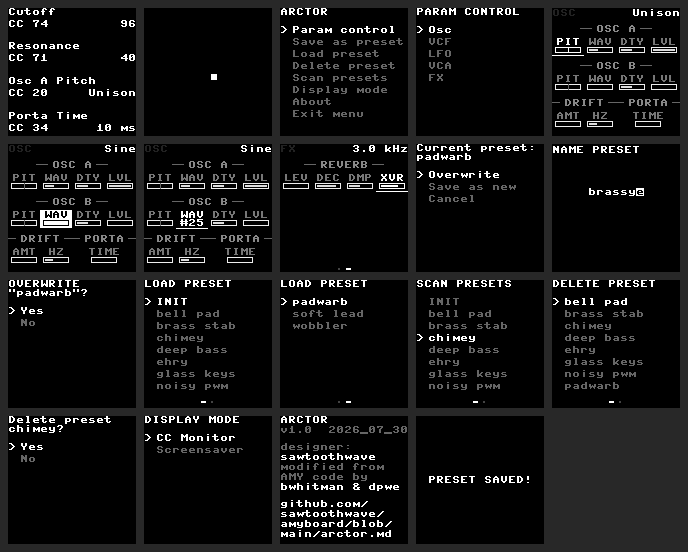
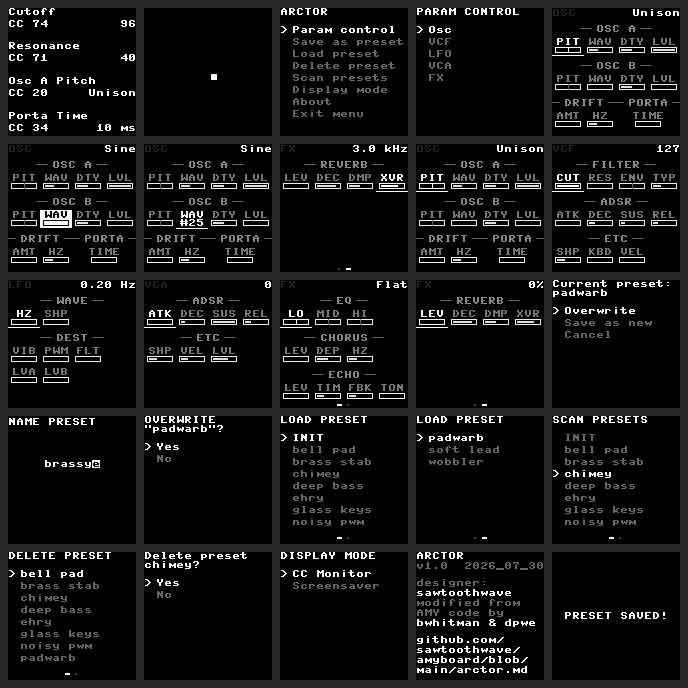
Add a screenshot of every parameter page
One capture per grid screen you can actually land on: Osc, VCF, LFO, VCA
(one page each) and FX (two -- EQ/Chorus/Echo, then Reverb). The cursor
sits on the first cell OF THAT PAGE, so grid-fx-p2 really is page 2 with
its page indicator rather than page 1 relabelled.

Named, not numbered, on purpose. Inserting six files into the numbered
sequence would push 09-save-chooser onward down by six and silently break
any link already written against them -- the same hazard as when removing
the oscilloscope capture renumbered everything after it. Named files also
read better in a manual: grid-vcf.png says what it is.

This overlaps two existing captures (grid-osc == 05-grid-cursor,
grid-fx-p2 == 08-grid-page2). Kept both: the numbered pair document
CURSOR STATES (cursor / selected / CC reveal), the named set documents
the PAGES, and mixing the two schemes in one doc would be worse than a
duplicated PNG.

diff --git a/tools/screencaps.py b/tools/screencaps.py
@@ -170,6 +170,31 @@ def main():
     menu.handle(0, False, True)
     menu.handle(0, False, True)            # back to root
 
+    # Every parameter group, every page -- one image per screen you can actually
+    # land on. Named rather than numbered ON PURPOSE: the numbered captures above
+    # are already linked from arctor.md, and inserting these into that sequence
+    # would renumber everything after them and silently break those links.
+    print('\n--- Every parameter page')
+    groups = ns['PARAM_GROUPS']
+    for g in groups:
+        menu.stack = [menu._root()]
+        dict(menu.cur.items)['Param control']()
+        dict(menu.cur.items)[g]()
+        lvl = menu.cur
+        npages = max(c[0] for c in lvl.cells) + 1
+        for pg in range(npages):
+            # Put the cursor on the first cell OF THIS PAGE, so each capture shows
+            # the page it names rather than paging back to wherever idx last was.
+            lvl.idx = next(i for i, c in enumerate(lvl.cells) if c[0] == pg)
+            lvl.editing = False
+            lvl.hover_shown = False
+            lvl.hover_at = _t.ticks_ms()
+            name = 'grid-%s' % g.lower()
+            if npages > 1:
+                name += '-p%d' % (pg + 1)
+            clear(); paint(); _snap(fb, name, shots)
+    menu.stack = [menu._root()]
+
     print('\n--- Presets')
     dict(menu.cur.items)['Save as preset']()
     clear(); paint(); _snap(fb, '09-save-chooser', shots)
